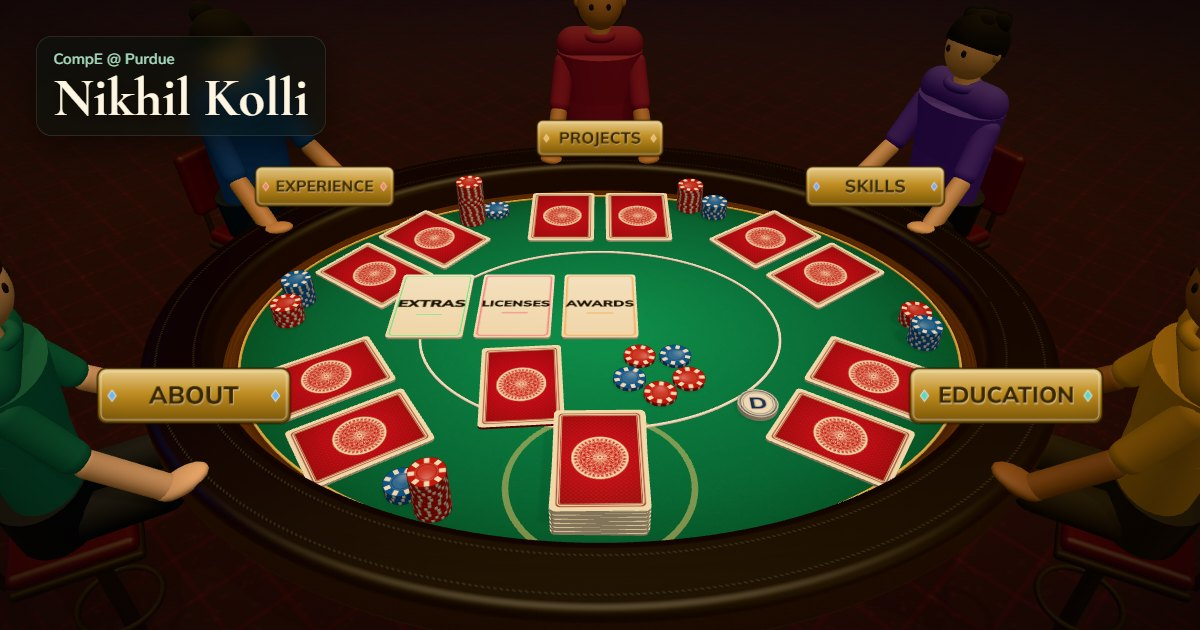
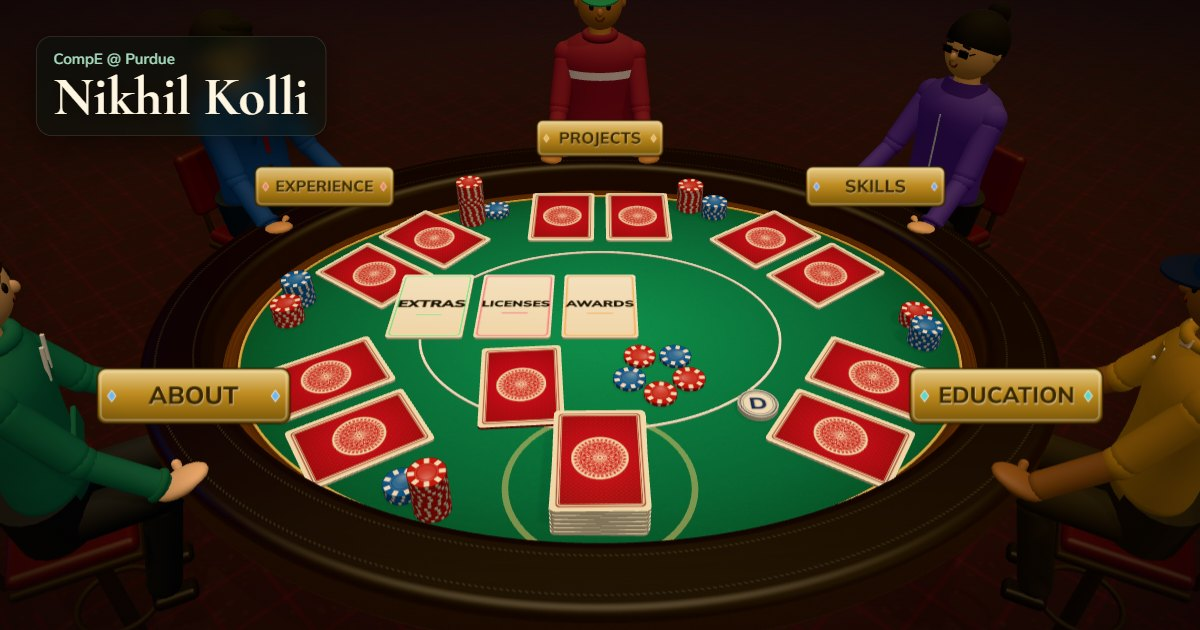
Players: faces, sculpted bodies, an outfit and accessory each
- Faces: brows, nose and a smile alongside the eyes.
- One smooth sculpted torso (waist, chest, shoulders) in place of stacked
  cylinders; rounded shoulders and elbows, sleeve cuffs, hands with thumbs,
  and full legs down to shoes resting on the chair footrest.
- A look per seat: hoodie with hood, drawstrings and pocket plus headphones
  (About); blazer, shirt, tie and lapels plus glasses (Experience); striped
  crewneck plus a green dealer's visor (Projects); zip jacket with a stand
  collar plus sunglasses (Skills); polo with collar and buttons plus a cap
  (Education).
- Still merged by surface: six draws for all five players and chairs.
- Link preview image refreshed to show them.

diff --git a/src/three/Player.tsx b/src/three/Player.tsx
@@ -8,32 +8,89 @@ const SKINS = ['#e8b48c', '#c98e63', '#a9714a', '#d9a173', '#8d5a3a']
 const SHIRTS = ['#2f6f57', '#2d4a78', '#7a3340', '#5c4a86', '#b07a2e']
 const HAIRS = ['#241710', '#14110d', '#3a2418', '#0e0c0a', '#4a2f1c']
 const PANTS = ['#2a2e35', '#1f2933', '#33302c', '#222428', '#2c2620']
-const EYES = '#1b130e'
+const SHOES = '#1a1512'
+const INK = '#1b130e' // eyes, frames
+const LIPS = '#5a2a22'
 const CHAIR_LEATHER = '#45191f'
 const CHAIR_FRAME = '#22150d'
 
 const pick = (arr: string[], v: number) => arr[Math.round(v * (arr.length - 1))]
 
+/** Mix a colour toward black (amt < 0) or white (amt > 0). */
+function shade(hex: string, amt: number): string {
+  const target = new THREE.Color(amt < 0 ? 0x000000 : 0xffffff)
+  return `#${new THREE.Color(hex).lerp(target, Math.abs(amt)).getHexString()}`
+}
+
+type Outfit = 'hoodie' | 'blazer' | 'sweater' | 'jacket' | 'polo'
+type Hair = 'crop' | 'fringe' | 'curls' | 'bun' | 'long'
+type Accessory = 'headphones' | 'glasses' | 'visor' | 'sunglasses' | 'cap'
+
+/** One look per seat, in table order (About, Experience, Projects, Skills, Education). */
+const LOOKS: { outfit: Outfit; hair: Hair; accessory: Accessory }[] = [
+  { outfit: 'hoodie', hair: 'crop', accessory: 'headphones' },
+  { outfit: 'blazer', hair: 'fringe', accessory: 'glasses' },
+  { outfit: 'sweater', hair: 'curls', accessory: 'visor' },
+  { outfit: 'jacket', hair: 'bun', accessory: 'sunglasses' },
+  { outfit: 'polo', hair: 'long', accessory: 'cap' },
+]
+
 /**
- * Parts are merged by surface, not by player: the torso, lap and chair
- * cushions catch shadows, the rest of the clothing and hair only cast them,
- * skin is a little glossier, and the chair's leather and wooden frame each get
- * their own finish. Each part keeps its own colour as a vertex colour.
+ * Parts are merged by surface, not by player: clothing on the body catches
+ * shadows, the rest of the clothing and hair only cast them, skin is a little
+ * glossier, small hard details (eyes, lenses, shoes, zips) are glossy, and the
+ * chair's leather and frame each get their own finish. Every part keeps its
+ * own colour as a vertex colour.
  */
-type Surface = 'body' | 'cloth' | 'skin' | 'leather' | 'frame'
-const SURFACES: Surface[] = ['body', 'cloth', 'skin', 'leather', 'frame']
+type Surface = 'body' | 'cloth' | 'skin' | 'gloss' | 'leather' | 'frame'
+const SURFACES: Surface[] = ['body', 'cloth', 'skin', 'gloss', 'leather', 'frame']
 
 type Vec3 = [number, number, number]
 
 /** The floor (y = -3.7) in a figure's local units (placed at y -0.35, scaled 1.95). */
 const FLOOR_Y = (-3.7 + 0.35) / 1.95
 
+/** Torso silhouette (radius, height) revolved into one smooth piece: hips → waist → chest → shoulders → neck. */
+const TORSO_PROFILE: [number, number][] = [
+  [0.001, 0.3],
+  [0.25, 0.3],
+  [0.262, 0.4],
+  [0.255, 0.55],
+  [0.265, 0.72],
+  [0.29, 0.9],
+  [0.3, 1.02],
+  [0.286, 1.1],
+  [0.24, 1.17],
+  [0.17, 1.22],
+  [0.1, 1.25],
+  [0.001, 1.26],
+]
+/** The torso is an oval: wider than it is deep. */
+const TORSO_SCALE: Vec3 = [1.22, 1, 0.78]
+
+/** Depth of the torso's front surface at height y, for placing details on it. */
+function chestZ(y: number): number {
+  for (let i = 1; i < TORSO_PROFILE.length; i += 1) {
+    const [r0, y0] = TORSO_PROFILE[i - 1]
+    const [r1, y1] = TORSO_PROFILE[i]
+    if (y <= y1) return (r0 + ((y - y0) / (y1 - y0)) * (r1 - r0)) * TORSO_SCALE[2]
+  }
+  return 0
+}
+
 /**
  * All five seated players and their chairs, built as plain three.js parts and
- * merged into one mesh per surface -- five draws for the whole lot.
+ * merged into one mesh per surface -- six draws for the whole lot.
  */
 function buildPlayers(): Record<Surface, THREE.BufferGeometry> {
-  const parts: Record<Surface, THREE.BufferGeometry[]> = { body: [], cloth: [], skin: [], leather: [], frame: [] }
+  const parts: Record<Surface, THREE.BufferGeometry[]> = {
+    body: [],
+    cloth: [],
+    skin: [],
+    gloss: [],
+    leather: [],
+    frame: [],
+  }
   const root = new THREE.Group()
   const meshes: { mesh: THREE.Mesh; surface: Surface; color: THREE.Color }[] = []
 
@@ -60,12 +117,19 @@ function buildPlayers(): Record<Surface, THREE.BufferGeometry> {
     parent.add(mesh)
     meshes.push({ mesh, surface, color: new THREE.Color(color) })
   }
+  const box = (w: number, h: number, d: number, r: number) => new RoundedBoxGeometry(w, h, d, 2, r)
+  const sphere = (r: number, w = 16, h = 12) => new THREE.SphereGeometry(r, w, h)
+  const capsule = (r: number, l: number) => new THREE.CapsuleGeometry(r, l, 6, 12)
+  /** A half disc pointing +z: brims of caps and visors. */
+  const brim = (r: number) => new THREE.CylinderGeometry(r, r, 0.014, 24, 1, false, -Math.PI / 2, Math.PI)
 
   playerSpots.forEach((spot, index) => {
+    const look = LOOKS[index % LOOKS.length]
     const skin = pick(SKINS, spot.variant)
     const shirt = pick(SHIRTS, spot.variant)
     const hair = pick(HAIRS, spot.variant)
     const pants = pick(PANTS, spot.variant)
+    const longSleeves = look.outfit !== 'polo'
 
     const fig = group(root, [spot.x, -0.35, spot.z], [0, spot.faceYaw, 0])
     fig.scale.setScalar(1.95)
@@ -73,11 +137,10 @@ function buildPlayers(): Record<Surface, THREE.BufferGeometry> {
     // --- Chair: a high-top casino chair (the table stands well above the
     // floor) -- padded seat and back, one post down to a round base, and a
     // footrest ring ---
-    part(fig, new RoundedBoxGeometry(0.74, 0.1, 0.64, 3, 0.045), CHAIR_LEATHER, 'leather', [0, -0.01, 0.0])
-    part(fig, new RoundedBoxGeometry(0.8, 0.52, 0.11, 3, 0.05), CHAIR_LEATHER, 'leather', [0, 0.44, -0.37], [-0.12, 0, 0])
-    part(fig, new RoundedBoxGeometry(0.78, 0.06, 0.66, 2, 0.025), CHAIR_FRAME, 'frame', [0, -0.08, 0.0])
+    part(fig, box(0.74, 0.1, 0.64, 0.045), CHAIR_LEATHER, 'leather', [0, -0.01, 0])
+    part(fig, box(0.8, 0.52, 0.11, 0.05), CHAIR_LEATHER, 'leather', [0, 0.44, -0.37], [-0.12, 0, 0])
+    part(fig, box(0.78, 0.06, 0.66, 0.025), CHAIR_FRAME, 'frame', [0, -0.08, 0])
     for (const sx of [-1, 1]) {
-      // back posts, from the seat frame up into the backrest
       part(fig, new THREE.CylinderGeometry(0.022, 0.026, 0.34, 10), CHAIR_FRAME, 'frame', [sx * 0.31, 0.12, -0.35], [-0.12, 0, 0])
     }
     const postH = -0.1 - FLOOR_Y
@@ -85,30 +148,82 @@ function buildPlayers(): Record<Surface, THREE.BufferGeometry> {
     part(fig, new THREE.TorusGeometry(0.24, 0.02, 8, 32), CHAIR_FRAME, 'frame', [0, -0.78, 0], [Math.PI / 2, 0, 0])
     part(fig, new THREE.CylinderGeometry(0.3, 0.34, 0.05, 32), CHAIR_FRAME, 'frame', [0, FLOOR_Y + 0.025, 0])
 
-    // --- Body ---
-    // Seat / hips (also an oval)
+    // --- Legs: hips and thighs on the seat, shins down to shoes on the footrest ---
     part(fig, new THREE.CylinderGeometry(0.3, 0.27, 0.32, 24), pants, 'body', [0, 0.2, -0.05], undefined, [1.18, 1, 0.82])
-    // Thighs reaching forward under the table (the seated lap)
     for (const s of [-1, 1]) {
-      part(fig, new THREE.CapsuleGeometry(0.125, 0.42, 6, 12), pants, 'body', [s * 0.16, 0.12, 0.28], [Math.PI / 2.05, 0, 0])
+      part(fig, capsule(0.125, 0.42), pants, 'body', [s * 0.16, 0.12, 0.28], [Math.PI / 2.05, 0, 0])
+      part(fig, capsule(0.1, 0.62), pants, 'body', [s * 0.155, -0.28, 0.38], [0.27, 0, 0])
+      part(fig, box(0.14, 0.09, 0.26, 0.04), SHOES, 'gloss', [s * 0.15, -0.73, 0.32])
     }
-    // Torso as an OVAL cylinder (wider than deep): waist → chest
-    part(fig, new THREE.CylinderGeometry(0.27, 0.25, 0.42, 28), shirt, 'body', [0, 0.52, -0.01], undefined, [1.22, 1, 0.78])
-    part(fig, new THREE.CylinderGeometry(0.3, 0.27, 0.42, 28), shirt, 'body', [0, 0.9, 0.01], [0.06, 0, 0], [1.22, 1, 0.78])
-    // Sloped shoulders + collar
-    part(fig, new THREE.CapsuleGeometry(0.14, 0.46, 6, 16), shirt, 'cloth', [0, 1.16, 0.02], [0, 0, Math.PI / 2])
-    part(fig, new THREE.TorusGeometry(0.115, 0.034, 10, 20), shirt, 'cloth', [0, 1.25, 0.05], [Math.PI / 2, 0, 0])
-    // Neck and head
+
+    // --- Torso ---
+    const torso = new THREE.LatheGeometry(
+      TORSO_PROFILE.map(([r, y]) => new THREE.Vector2(r, y)),
+      32,
+    )
+    part(fig, torso, shirt, 'body', [0, 0, 0], undefined, TORSO_SCALE)
+    // Rounded shoulders where the arms meet the body.
+    for (const s of [-1, 1]) part(fig, sphere(0.11), shirt, 'body', [s * 0.285, 1.07, 0.02])
+
+    const z = (y: number, lift = 0.006) => chestZ(y) + lift
+    switch (look.outfit) {
+      case 'hoodie': {
+        // Hood bunched behind the neck, drawstrings, and a kangaroo pocket.
+        part(fig, sphere(0.2, 20, 12), shirt, 'body', [0, 1.2, -0.17], undefined, [1.15, 0.6, 0.7])
+        for (const s of [-1, 1]) {
+          part(fig, new THREE.CylinderGeometry(0.011, 0.011, 0.2, 6), '#ece6da', 'cloth', [s * 0.055, 1.07, z(1.07, 0.012)], [0.15, 0, 0])
+        }
+        part(fig, box(0.32, 0.14, 0.03, 0.012), shade(shirt, -0.18), 'body', [0, 0.56, z(0.56, 0.01)])
+        part(fig, new THREE.TorusGeometry(0.115, 0.04, 10, 20), shirt, 'cloth', [0, 1.25, 0.05], [Math.PI / 2, 0, 0])
+        break
+      }
+      case 'blazer': {
+        // White shirt and tie in the V of the lapels, two buttons.
+        part(fig, new THREE.CylinderGeometry(0.1, 0.1, 0.01, 3), '#f1ede4', 'body', [0, 1.06, z(1.06, 0.004)], [Math.PI / 2, 0, 0])
+        part(fig, box(0.04, 0.24, 0.012, 0.006), '#7a1f2b', 'body', [0, 0.85, z(0.85, 0.008)])
+        for (const s of [-1, 1]) {
+          part(fig, box(0.04, 0.3, 0.014, 0.006), shade(shirt, -0.35), 'body', [s * 0.065, 1.0, z(1.0, 0.01)], [0, 0, s * 0.38])
+        }
+        for (const y of [0.74, 0.62]) part(fig, sphere(0.014, 8, 6), INK, 'gloss', [0, y, z(y, 0.012)])
+        break
+      }
+      case 'sweater': {
+        // Ribbed crew collar and a contrasting band knitted across the chest.
+        part(fig, new THREE.TorusGeometry(0.12, 0.035, 10, 24), shade(shirt, -0.2), 'cloth', [0, 1.245, 0.04], [Math.PI / 2, 0, 0])
+        part(fig, new THREE.CylinderGeometry(0.3, 0.3, 0.07, 40, 1, true), shade(shirt, 0.5), 'body', [0, 0.95, 0], undefined, TORSO_SCALE)
+        break
+      }
+      case 'jacket': {
+        // Stand-up collar and a zip down the front.
+        part(fig, new THREE.CylinderGeometry(0.14, 0.16, 0.1, 24, 1, true), shade(shirt, -0.15), 'cloth', [0, 1.25, 0.03], undefined, [1.1, 1, 1])
+        part(fig, box(0.014, 0.66, 0.01, 0.004), '#c9ccd1', 'gloss', [0, 0.72, z(0.72, 0.01)], [0.05, 0, 0])
+        break
+      }
+      case 'polo': {
+        // Collar flaps and a buttoned placket.
+        for (const s of [-1, 1]) {
+          part(fig, box(0.1, 0.05, 0.016, 0.008), shade(shirt, 0.25), 'cloth', [s * 0.06, 1.235, 0.16], [-0.35, 0, s * 0.5])
+        }
+        part(fig, box(0.04, 0.14, 0.01, 0.004), shade(shirt, -0.12), 'body', [0, 1.1, z(1.1, 0.006)])
+        for (const y of [1.13, 1.07]) part(fig, sphere(0.011, 8, 6), '#ece6da', 'gloss', [0, y, z(y, 0.014)])
+        part(fig, new THREE.TorusGeometry(0.115, 0.03, 10, 20), shirt, 'cloth', [0, 1.25, 0.05], [Math.PI / 2, 0, 0])
+        break
+      }
+    }
+
+    // --- Head ---
     part(fig, new THREE.CylinderGeometry(0.082, 0.1, 0.17, 16), skin, 'skin', [0, 1.31, 0.03])
-    part(fig, new THREE.SphereGeometry(0.2, 30, 30), skin, 'skin', [0, 1.52, 0.05], undefined, [0.94, 1.12, 1])
-    // Ears
+    part(fig, new THREE.SphereGeometry(0.2, 32, 28), skin, 'skin', [0, 1.52, 0.05], undefined, [0.94, 1.12, 1])
     for (const s of [-1, 1]) {
-      part(fig, new THREE.SphereGeometry(0.05, 12, 12), skin, 'skin', [s * 0.19, 1.52, 0.03], undefined, [0.55, 1, 0.7])
+      part(fig, sphere(0.05, 12, 10), skin, 'skin', [s * 0.19, 1.52, 0.03], undefined, [0.55, 1, 0.7])
     }
-    // Eyes: two small dots, enough to give each face a direction.
+    // Face: eyes, brows, nose, and a small smile.
     for (const s of [-1, 1]) {
-      part(fig, new THREE.SphereGeometry(0.021, 10, 8), EYES, 'cloth', [s * 0.068, 1.535, 0.235], undefined, [1, 1.25, 0.6])
+      part(fig, sphere(0.021, 10, 8), INK, 'gloss', [s * 0.068, 1.535, 0.235], undefined, [1, 1.25, 0.6])
+      part(fig, capsule(0.011, 0.05), hair, 'cloth', [s * 0.07, 1.585, 0.226], [0, 0, Math.PI / 2 - s * 0.12])
     }
+    part(fig, sphere(0.03, 12, 10), shade(skin, -0.05), 'skin', [0, 1.495, 0.252], undefined, [0.8, 1.1, 1])
+    part(fig, new THREE.TorusGeometry(0.032, 0.008, 6, 12, Math.PI), LIPS, 'gloss', [0, 1.455, 0.232], [0, 0, Math.PI])
 
     // --- Hair: a cap set back off the forehead, plus a style per player ---
     part(
@@ -120,35 +235,73 @@ function buildPlayers(): Record<Surface, THREE.BufferGeometry> {
       [-0.34, 0, 0],
       [1.03, 1.06, 1.1],
     )
-    switch (index % 5) {
-      case 0: // swept fringe
-        part(fig, new THREE.SphereGeometry(0.1, 16, 12), hair, 'cloth', [0.05, 1.68, 0.14], [0.3, 0, -0.25], [1.5, 0.55, 0.85])
+    switch (look.hair) {
+      case 'fringe':
+        part(fig, sphere(0.1), hair, 'cloth', [0.05, 1.68, 0.14], [0.3, 0, -0.25], [1.5, 0.55, 0.85])
         break
-      case 1: // bun
-        part(fig, new THREE.SphereGeometry(0.085, 16, 12), hair, 'cloth', [0, 1.74, -0.13])
+      case 'bun':
+        part(fig, sphere(0.085), hair, 'cloth', [0, 1.74, -0.13])
         break
-      case 2: // longer at the back
-        part(fig, new THREE.SphereGeometry(0.2, 22, 16), hair, 'cloth', [0, 1.47, -0.07], undefined, [1.06, 1.05, 0.88])
+      case 'long':
+        part(fig, sphere(0.2, 22, 16), hair, 'cloth', [0, 1.47, -0.07], undefined, [1.06, 1.05, 0.88])
         break
-      case 3: // curls
+      case 'curls':
         for (let i = 0; i < 6; i += 1) {
           const a = (i / 6) * Math.PI * 2
-          part(fig, new THREE.SphereGeometry(0.07, 12, 10), hair, 'cloth', [Math.cos(a) * 0.12, 1.72, Math.sin(a) * 0.1 - 0.02])
+          part(fig, sphere(0.07, 12, 10), hair, 'cloth', [Math.cos(a) * 0.12, 1.72, Math.sin(a) * 0.1 - 0.02])
         }
         break
-      default: // close crop: the cap alone
+      case 'crop':
+        break
+    }
+
+    // --- Accessory ---
+    switch (look.accessory) {
+      case 'headphones':
+        part(fig, new THREE.TorusGeometry(0.215, 0.02, 8, 24, Math.PI), '#1d2026', 'gloss', [0, 1.53, 0.04], undefined, [1, 1.12, 1])
+        for (const s of [-1, 1]) {
+          part(fig, new THREE.CylinderGeometry(0.07, 0.07, 0.06, 20), '#1d2026', 'gloss', [s * 0.205, 1.52, 0.04], [0, 0, Math.PI / 2])
+        }
+        break
+      case 'glasses':
+      case 'sunglasses':
+        for (const s of [-1, 1]) {
+          if (look.accessory === 'glasses') {
+            part(fig, new THREE.TorusGeometry(0.042, 0.008, 6, 20), INK, 'gloss', [s * 0.07, 1.538, 0.243])
+          } else {
+            part(fig, box(0.08, 0.052, 0.016, 0.014), '#0d0f12', 'gloss', [s * 0.07, 1.535, 0.244])
+          }
+          part(fig, new THREE.CylinderGeometry(0.006, 0.006, 0.17, 6), INK, 'gloss', [s * 0.125, 1.545, 0.16], [Math.PI / 2, 0, 0])
+        }
+        part(fig, new THREE.CylinderGeometry(0.007, 0.007, 0.05, 6), INK, 'gloss', [0, 1.548, 0.252], [0, 0, Math.PI / 2])
+        break
+      case 'visor':
+        // The classic green dealer's visor: a headband and a brim.
+        part(fig, new THREE.TorusGeometry(0.2, 0.016, 8, 32), '#1f5c3d', 'cloth', [0, 1.63, 0.04], [Math.PI / 2, 0, 0], [0.97, 1.05, 1])
+        part(fig, brim(0.17), '#2f8a5a', 'cloth', [0, 1.63, 0.2], [0.28, 0, 0])
+        break
+      case 'cap':
+        part(fig, new THREE.SphereGeometry(0.215, 24, 12, 0, Math.PI * 2, 0, Math.PI / 2), '#25344d', 'cloth', [0, 1.56, 0.04], undefined, [0.98, 0.95, 1.04])
+        part(fig, brim(0.15), '#1c283c', 'cloth', [0, 1.585, 0.2], [0.12, 0, 0], [1, 1, 1.25])
+        part(fig, sphere(0.02, 8, 6), '#1c283c', 'cloth', [0, 1.765, 0.04])
         break
     }
 
     // --- Arms: shoulder → (bent elbow) → forearm → hand resting on the table edge ---
+    const forearmColor = longSleeves ? shirt : skin
     for (const side of [-1, 1]) {
       const arm = group(fig, [side * 0.3, 1.05, 0.04], [-0.5, 0, side * 0.12])
-      part(arm, new THREE.CapsuleGeometry(0.088, 0.34, 8, 14), shirt, 'cloth', [0, -0.22, 0])
+      part(arm, capsule(0.088, 0.34), shirt, 'cloth', [0, -0.22, 0])
       // the forearm bends further forward and down to the felt
       const fore = group(arm, [0, -0.45, 0], [-0.32, 0, 0])
-      part(fore, new THREE.CapsuleGeometry(0.072, 0.4, 8, 14), skin, 'skin', [0, -0.23, 0])
-      // the hand rests palm-down, fingers forward
-      part(fore, new THREE.SphereGeometry(0.1, 16, 14), skin, 'skin', [0, -0.47, 0.06], [0.5, 0, 0], [1.05, 0.5, 1.5])
+      part(fore, sphere(0.085), shirt, 'cloth', [0, 0, 0])
+      part(fore, capsule(0.075, 0.36), forearmColor, longSleeves ? 'cloth' : 'skin', [0, -0.2, 0])
+      if (longSleeves) {
+        part(fore, new THREE.TorusGeometry(0.072, 0.022, 8, 18), shade(shirt, -0.2), 'cloth', [0, -0.38, 0], [Math.PI / 2, 0, 0])
+      }
+      // the hand rests palm-down, fingers forward, thumb tucked inward
+      part(fore, sphere(0.1, 16, 14), skin, 'skin', [0, -0.47, 0.06], [0.5, 0, 0], [1.05, 0.5, 1.5])
+      part(fore, capsule(0.026, 0.06), skin, 'skin', [-side * 0.085, -0.45, 0.07], [0.5, 0, side * 0.7])
     }
   })
 
@@ -178,13 +331,16 @@ export function Players() {
   return (
     <>
       <mesh geometry={geometry.body} castShadow receiveShadow>
-        <meshStandardMaterial vertexColors roughness={0.87} />
-      </mesh>
-      <mesh geometry={geometry.cloth} castShadow>
         <meshStandardMaterial vertexColors roughness={0.86} />
       </mesh>
+      <mesh geometry={geometry.cloth} castShadow>
+        <meshStandardMaterial vertexColors roughness={0.82} />
+      </mesh>
       <mesh geometry={geometry.skin} castShadow>
-        <meshStandardMaterial vertexColors roughness={0.62} />
+        <meshStandardMaterial vertexColors roughness={0.55} />
+      </mesh>
+      <mesh geometry={geometry.gloss} castShadow>
+        <meshStandardMaterial vertexColors roughness={0.3} metalness={0.15} />
       </mesh>
       <mesh geometry={geometry.leather} castShadow receiveShadow>
         <meshStandardMaterial vertexColors roughness={0.42} />
